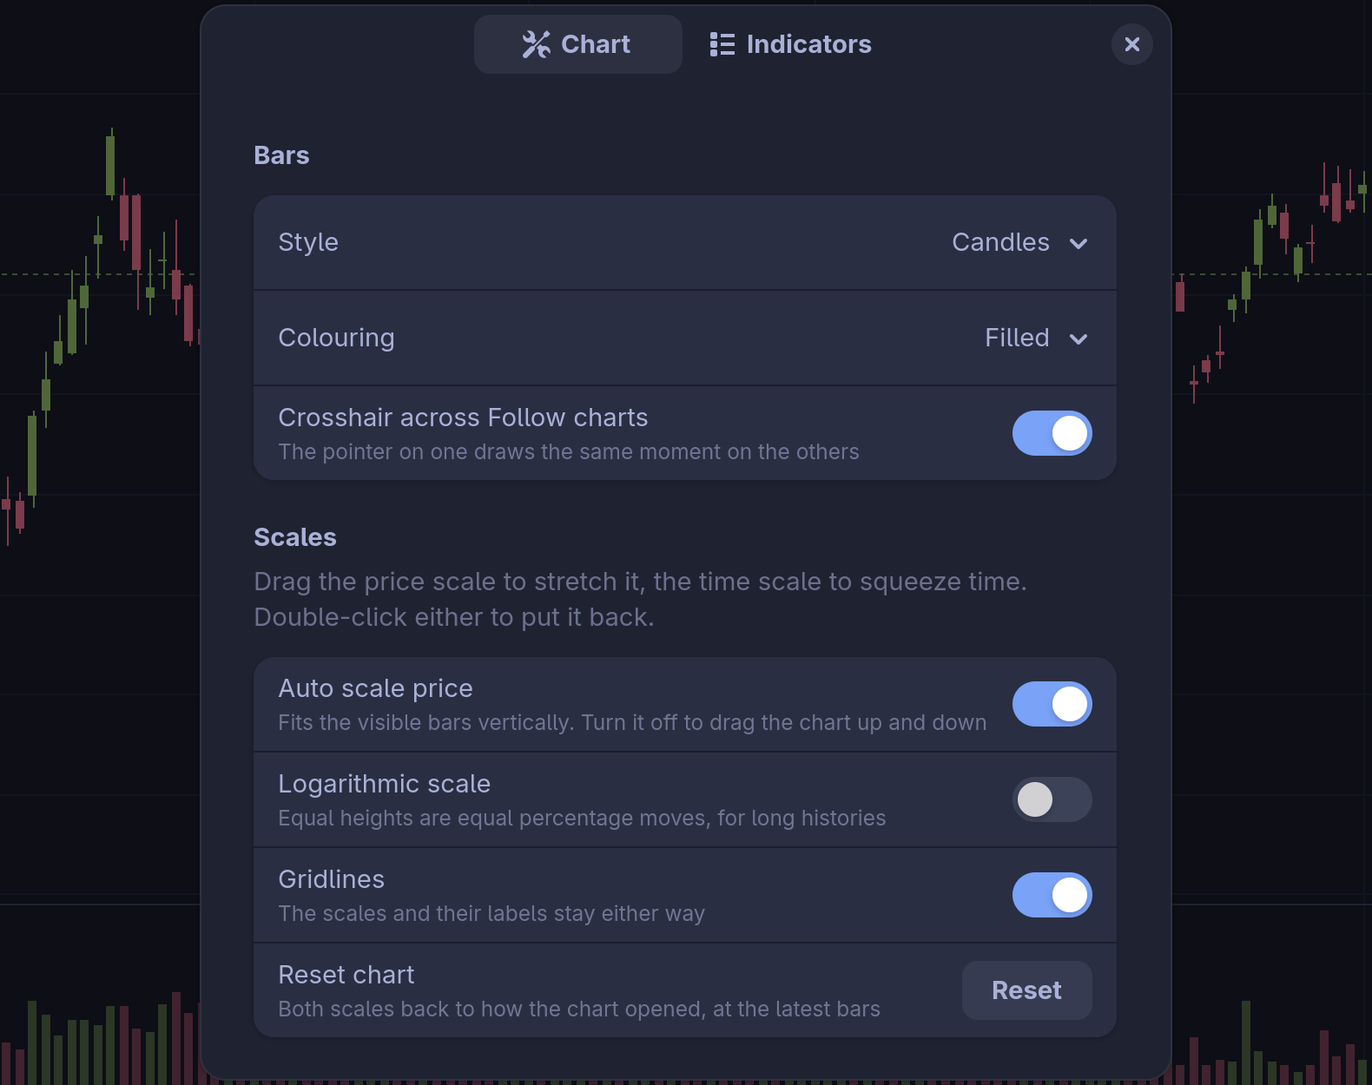
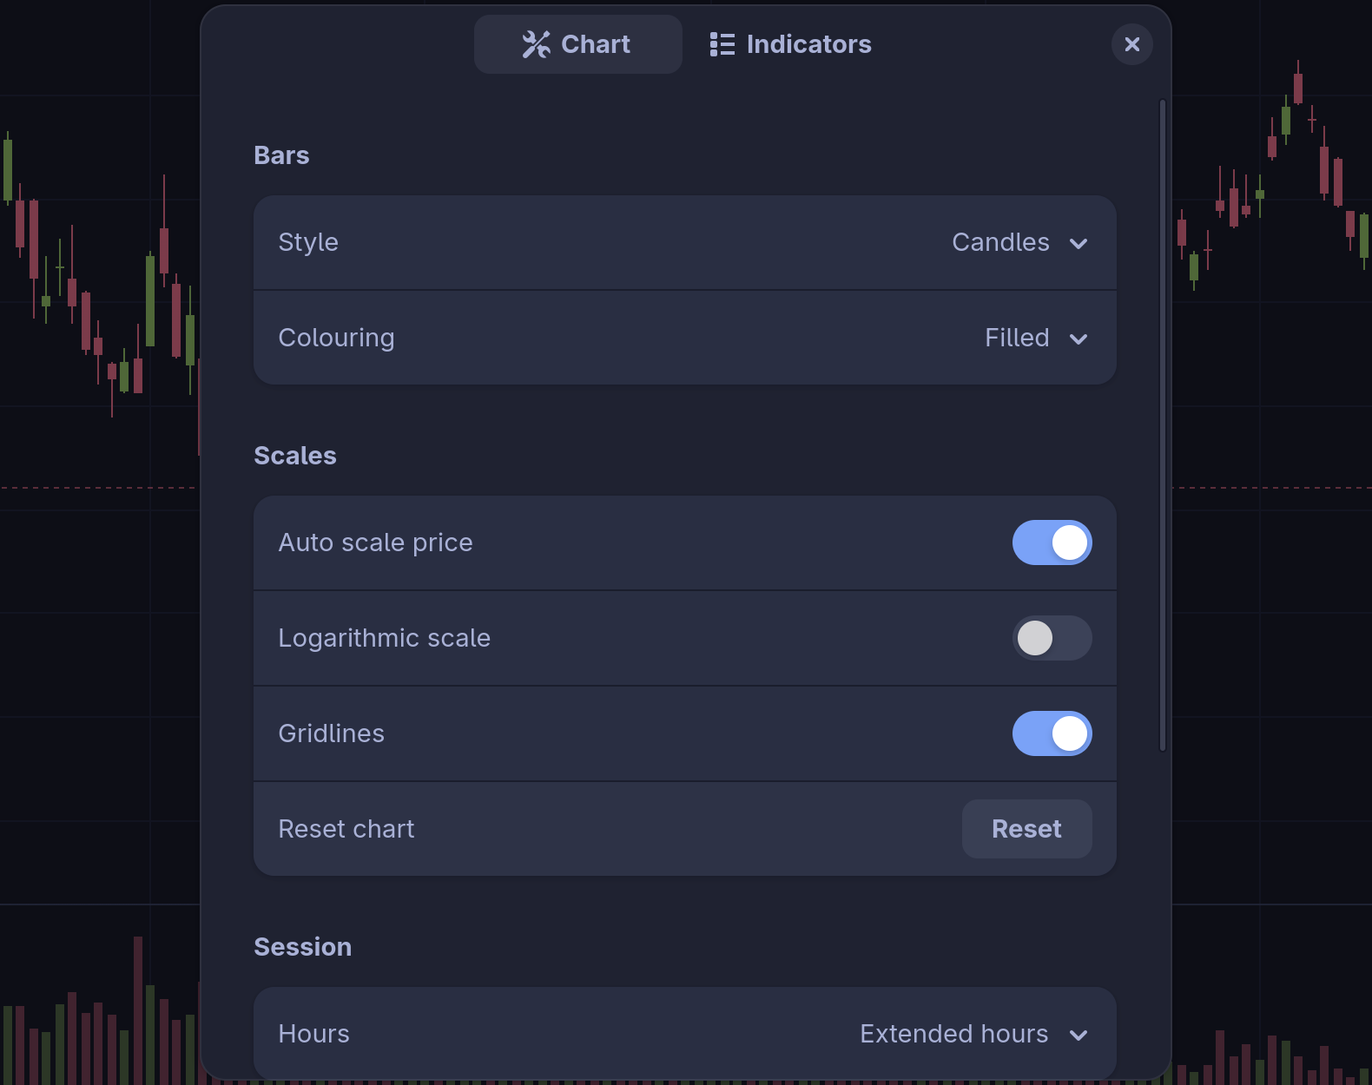
Sync the crosshair across charts of the same symbol, as one app-wide preference (#112)
* Make crosshair syncing a per-chart setting, between charts of one symbol

The crosshair was shared by one switch for the whole window, and only
between Follow charts. Each chart now has its own Sync crosshair switch,
on by default and stored with the chart: a chart with it on shares its
pointer with, and shows the crosshair of, every other chart on screen of
the same symbol that has it on, whatever their link mode or resolution.

The switch is in Chart settings where the window-wide row was, in the
chart menu beside Gridlines, Indicators and Drawings, and on the command
line as chart set --crosshair. chart crosshair is gone with the setting
it read. A window-wide switch left off is carried onto every chart
written before this, as off.

* Make crosshair syncing one app-wide preference, between charts of one symbol

Per the author's change of direction: not a per-chart switch, but one
setting for the app, and nothing to do with how charts are linked to the
watchlist. Preferences › Charts › Other › Chart › Sync crosshair across
charts, on by default. With it on, a pointer on any chart draws the same
moment on every other chart on screen of the same symbol and suffix,
whatever their link mode or resolution; charts of different symbols never
share one.

This takes back the per-chart crosshair_sync — the stored field, the split
copy, the chart menu tick, the Chart settings row, chart set --crosshair
and its migration — and removes the old window-wide row from Chart
[…]

diff --git a/src/ui/window.rs b/src/ui/window.rs
@@ -1468,7 +1468,8 @@ pub enum NotShown {
 const SETTING_WORKSPACE: &str = "workspace";
 /// Whether the drawing tools are on screen.
 const SHOW_DRAWING_TOOLS: &str = "show_drawing_tools";
-/// Whether a pointer on a Follow chart draws a line on the other Follow charts.
+/// Whether a pointer on a chart draws a line on the other charts of its
+/// symbol. One switch for the app, in the preferences.
 pub const SETTING_SYNC_CROSSHAIR: &str = "sync_crosshair";
 
 /// One chart, as it is written down.
@@ -2552,8 +2553,8 @@ impl Window {
             closer.change_indicators_of(&pane, kept);
         });
 
-        // The pointer on a Follow chart draws a crosshair on the other Follow
-        // charts, so you can read the same moment and the same price on all
+        // The pointer on a chart draws a crosshair on the other charts of its
+        // symbol, so you can read the same moment and the same price on all
         // of them at once. Both halves travel as values rather than as
         // pixels: charts at different resolutions share no bar index, and
         // charts at different zooms share no y.
@@ -4622,21 +4623,27 @@ impl Window {
         entry.add_controller(keys);
     }
 
-    /// Draw `ts` on every Follow chart when `from` is one, and on none when
-    /// it is not: a Focus or Pinned chart is deliberately somewhere else.
+    /// Draw where the pointer on `from` is on every other chart showing its
+    /// symbol, and on no other chart.
+    ///
+    /// Whatever their link mode or resolution: what decides it is the
+    /// symbol, since a price and a moment only mean the same thing on two
+    /// charts of the same one. With the setting off nothing is drawn, and a
+    /// line still standing from before it was turned off goes as soon as the
+    /// pointer moves.
     fn echo_crosshair(self: &Rc<Self>, from: u32, echo: Option<Echo>) {
-        if !self.store.setting_bool(SETTING_SYNC_CROSSHAIR, true) {
-            return;
-        }
-        let source = self.pane(from).map(|p| p.mode()).unwrap_or_default();
+        let symbol = |pane: &ChartPane| {
+            pane.instrument.borrow().as_ref().map(|i| (i.symbol.clone(), i.suffix.clone()))
+        };
+        let sent = self
+            .pane(from)
+            .and_then(|source| symbol(&source))
+            .filter(|_| self.store.setting_bool(SETTING_SYNC_CROSSHAIR, true));
         for pane in self.panes.borrow().iter() {
             if pane.id == from {
                 continue;
             }
-            // Follow to Follow, or no line: any other chart may be showing a
-            // different symbol, and a crosshair from this one would be
-            // pointing at a bar that is not the bar under the pointer.
-            let show = source == LinkMode::Follow && pane.mode() == LinkMode::Follow;
+            let show = sent.is_some() && symbol(pane) == sent;
             pane.view.set_echo(if show { echo } else { None });
         }
     }
@@ -5618,11 +5625,11 @@ impl Window {
     }
 
     pub fn open_chart_settings(self: &Rc<Self>) {
-        crate::ui::chart_settings::ChartSettings::present(self, self.store.clone());
+        crate::ui::chart_settings::ChartSettings::present(self);
     }
 
     pub fn open_indicators(self: &Rc<Self>) {
-        crate::ui::chart_settings::ChartSettings::present_indicators(self, self.store.clone());
+        crate::ui::chart_settings::ChartSettings::present_indicators(self);
     }
 
     /// The indicator picker, centred like every other picker in the app.
@@ -7391,11 +7398,7 @@ impl Window {
                     picker.view.pick(Some(id));
                     return;
                 }
-                crate::ui::chart_settings::ChartSettings::present_indicator(
-                    &this,
-                    this.store.clone(),
-                    id,
-                );
+                crate::ui::chart_settings::ChartSettings::present_indicator(&this, id);
             });
             label.add_controller(open_settings);
 
@@ -7424,11 +7427,7 @@ impl Window {
             settings.set_tooltip_text(Some("Settings"));
             let this = self.clone();
             settings.connect_clicked(move |_| {
-                crate::ui::chart_settings::ChartSettings::present_indicator(
-                    &this,
-                    this.store.clone(),
-                    id,
-                );
+                crate::ui::chart_settings::ChartSettings::present_indicator(&this, id);
             });
 
             let remove = gtk::Button::from_icon_name("user-trash-symbolic");
@@ -7489,7 +7488,7 @@ impl Window {
             }
             IndicatorEvent::Properties(indicator) => {
                 self.focus(id);
-                crate::ui::chart_settings::ChartSettings::present_indicator(self, self.store.clone(), indicator);
+                crate::ui::chart_settings::ChartSettings::present_indicator(self, indicator);
             }
             IndicatorEvent::Remove(indicator) => self.remove_indicator(&pane, indicator),
         }
@@ -9057,7 +9056,7 @@ impl Window {
         let this = self.clone();
         settings.connect_activate(move |_, _| {
             if let Some(id) = this.menu_indicator.borrow_mut().take() {
-                crate::ui::chart_settings::ChartSettings::present_indicator(&this, this.store.clone(), id);
+                crate::ui::chart_settings::ChartSettings::present_indicator(&this, id);
             }
         });
         actions.add_action(&settings);

diff --git a/src/ui/chart_settings.rs b/src/ui/chart_settings.rs
@@ -18,7 +18,6 @@ use omacharts_engine::indicators::profile::{Align, Style};
 use omacharts_engine::theme::ColorChoice;
 use omacharts_engine::{BarColouring, BarStyle, Indicator, Session};
 
-use crate::store::Store;
 use crate::ui::colors;
 use crate::ui::controls;
 use crate::ui::dialogs;
@@ -38,21 +37,21 @@ pub struct ChartSettings;
 
 impl ChartSettings {
     /// The chart's own settings, on the first page.
-    pub fn present(window: &Rc<Window>, store: Rc<Store>) {
-        ChartSettings::open(window, store, Focus::Chart);
+    pub fn present(window: &Rc<Window>) {
+        ChartSettings::open(window, Focus::Chart);
     }
 
     /// Straight to the indicators.
-    pub fn present_indicators(window: &Rc<Window>, store: Rc<Store>) {
-        ChartSettings::open(window, store, Focus::Indicators);
+    pub fn present_indicators(window: &Rc<Window>) {
+        ChartSettings::open(window, Focus::Indicators);
     }
 
     /// Straight to one indicator's panel, for the gear beside it on the chart.
-    pub fn present_indicator(window: &Rc<Window>, store: Rc<Store>, id: u32) {
-        ChartSettings::open(window, store, Focus::Indicator(id));
+    pub fn present_indicator(window: &Rc<Window>, id: u32) {
+        ChartSettings::open(window, Focus::Indicator(id));
     }
 
-    fn open(window: &Rc<Window>, store: Rc<Store>, focus: Focus) {
+    fn open(window: &Rc<Window>, focus: Focus) {
         let dialog = adw::PreferencesDialog::new();
         dialog.set_title("Chart");
         dialog.set_content_width(560);
@@ -64,7 +63,7 @@ impl ChartSettings {
         let chart_page = adw::PreferencesPage::new();
         chart_page.set_title("Chart");
         chart_page.set_icon_name(Some("preferences-system-symbolic"));
-        chart_page.add(&bars_group(window, &store));
+        chart_page.add(&bars_group(window));
         chart_page.add(&scales_group(window));
         chart_page.add(&session_group(window));
         chart_page.add(&drawings_group(window));
@@ -270,7 +269,7 @@ fn template_rows(
     fill();
 }
 
-fn bars_group(window: &Rc<Window>, store: &Rc<Store>) -> adw::PreferencesGroup {
+fn bars_group(window: &Rc<Window>) -> adw::PreferencesGroup {
     let group = adw::PreferencesGroup::new();
     group.set_title("Bars");
 
@@ -322,25 +321,6 @@ fn bars_group(window: &Rc<Window>, store: &Rc<Store>) -> adw::PreferencesGroup {
     });
     group.add(&colouring);
 
-    // One switch for the window rather than one per chart: it is about how the
-    // charts behave towards each other, which is not a property of any one of
-    // them.
-    let sync = adw::ActionRow::new();
-    sync.set_title("Crosshair across Follow charts");
-    let switch = gtk::Switch::new();
-    switch.set_valign(gtk::Align::Center);
-    switch.set_active(store.setting_bool(crate::ui::window::SETTING_SYNC_CROSSHAIR, true));
-    let window_for_sync = window.clone();
-    let store_for_sync = store.clone();
-    switch.connect_state_set(move |_, on| {
-        store_for_sync.set_setting_bool(crate::ui::window::SETTING_SYNC_CROSSHAIR, on);
-        if !on {
-            window_for_sync.clear_echoes();
-        }
-        glib::Propagation::Proceed
-    });
-    sync.add_suffix(&switch);
-    group.add(&sync);
 
     group
 }

diff --git a/src/ui/preferences.rs b/src/ui/preferences.rs
@@ -254,8 +254,9 @@ fn rebuild(context: &Rc<Context>) {
 }
 
 /// A way to the resolution list from the settings, since the other way in is
-/// right-clicking a strip, which you have to know about to find.
-fn resolutions_group(context: &Rc<Context>) -> adw::PreferencesGroup {
+/// right-clicking a strip, which you have to know about to find; and the one
+/// switch about how the charts behave towards each other.
+fn chart_group(context: &Rc<Context>) -> adw::PreferencesGroup {
     let group = adw::PreferencesGroup::new();
     group.set_title("Chart");
 
@@ -273,6 +274,28 @@ fn resolutions_group(context: &Rc<Context>) -> adw::PreferencesGroup {
     row.connect_activated(move |_| edit());
 
     group.add(&row);
+
+    // One switch for the app rather than one per chart, and nothing to do
+    // with how a chart is linked to the watchlist: two charts of the same
+    // symbol are two looks at the same moment, whichever list moves them.
+    let sync = adw::ActionRow::new();
+    sync.set_title("Sync crosshair across charts");
+    let switch = gtk::Switch::new();
+    switch.set_valign(gtk::Align::Center);
+    switch.set_active(context.store.setting_bool(crate::ui::window::SETTING_SYNC_CROSSHAIR, true));
+    let store = context.store.clone();
+    let window = context.window.clone();
+    switch.connect_state_set(move |_, on| {
+        store.set_setting_bool(crate::ui::window::SETTING_SYNC_CROSSHAIR, on);
+        if !on {
+            window.clear_echoes();
+        }
+        glib::Propagation::Proceed
+    });
+    sync.add_suffix(&switch);
+    sync.set_activatable_widget(Some(&switch));
+    group.add(&sync);
+
     group
 }
 
@@ -754,7 +777,7 @@ fn build_general_page(context: &Rc<Context>) {
         context.general_page.add(&group);
     }
     context.charts_other_page.add(&time_group(context));
-    context.charts_other_page.add(&resolutions_group(context));
+    context.charts_other_page.add(&chart_group(context));
     context.general_page.add(&screenshots_group(context));
     build_charts_page(context);
     rebuild_templates(context);

diff --git a/src/cli/exec.rs b/src/cli/exec.rs
@@ -4175,10 +4175,12 @@ fn status(store: &Store, window_open: bool, as_json: bool) -> Result<String, Fau
     Ok(out)
 }
 
-/// Whether a pointer on a Follow chart draws a line on the other Follow charts.
+/// Whether a pointer on a chart draws a line on the other charts of the same
+/// symbol.
 ///
-/// One setting for the whole window rather than one per chart, which is why
-/// it reads and writes a setting rather than a pane.
+/// One setting for the whole app rather than one per chart, which is why it
+/// reads and writes a setting rather than a pane. The same key the
+/// preferences' switch writes, so `config set sync_crosshair` reaches it too.
 fn crosshair(store: &Store, m: &clap::ArgMatches, as_json: bool) -> Result<String, Fault> {
     const KEY: &str = "sync_crosshair";
     let Some(state) = arg(m, "STATE") else {
@@ -4193,7 +4195,7 @@ fn crosshair(store: &Store, m: &clap::ArgMatches, as_json: bool) -> Result<Strin
     said(
         as_json,
         json!({"crosshairSync": on}),
-        format!("crosshair syncing across Follow charts is {state}"),
+        format!("crosshair syncing across charts of the same symbol is {state}"),
     )
 }
 

diff --git a/src/ui/chart.rs b/src/ui/chart.rs
@@ -3593,7 +3593,7 @@ impl ChartView {
     /// Bar indices are not shared — two resolutions of the same symbol count
     /// their bars differently — so both halves travel as values and each
     /// chart maps them through its own scales. Price is worth carrying
-    /// because an echo only ever reaches the Follow charts, and they share a
+    /// because an echo only ever reaches the other charts of the same
     /// symbol: the number means the same thing at both ends.
     pub fn set_echo(&self, echo: Option<Echo>) {
         let changed = {

diff --git a/src/cli/spec.rs b/src/cli/spec.rs
@@ -968,7 +968,7 @@ pub const SURFACE: &[Noun] = &[
             },
             Verb {
                 name: "crosshair",
-                about: "Whether a pointer on a Follow chart draws a line on the other Follow charts",
+                about: "Whether a pointer on a chart draws a line on the other charts of the same symbol",
                 args: &[Arg::opt("STATE", "omit to read it").of(SWITCHES)],
                 flags: &[],
                 example: "omacharts chart crosshair off",

diff --git a/site/manual/cli.md b/site/manual/cli.md
@@ -277,7 +277,7 @@ codes](#exit-codes).
 | `watchlist` | Watchlists and the symbols in them | [Watchlists and sections](#watchlists-and-sections); `watchlist feed` under [The Omarchy plugin](#watchlist-feed) |
 | `section` | The sections inside a watchlist | [Watchlists and sections](#watchlists-and-sections) |
 | `chartbook` | Chartbooks | [Chartbooks](#chartbooks); `chartbook template` under [Chartbook templates](#chartbook-templates); `chartbook screenshot` under [Screenshots](#screenshots) |
-| `chart` | The charts in a chartbook | [Charts](#charts) (`set`, `range`), [Indicators](#indicators), [Drawings](#drawings), [Measuring a move](#measuring-a-move), [Arranging charts](#arranging-charts) (`list`, `split`, `close`, `focus`), [Linking](#linking) (`crosshair`), [Screenshots](#screenshots) |
+| `chart` | The charts in a chartbook | [Charts](#charts) (`set`, `range`), [Indicators](#indicators), [Drawings](#drawings), [Measuring a move](#measuring-a-move), [Arranging charts](#arranging-charts) (`list`, `split`, `close`, `focus`), [Linking](#linking), [Sharing the crosshair](#sharing-the-crosshair) (`crosshair`), [Screenshots](#screenshots) |
 | `template` | Chart templates | [Chart templates](#chart-templates) |
 | `provider` | The data feed, and signing in to one | [Market data](#market-data) |
 | `config` | Stored preferences | [Preferences](#preferences); `config bars` under [Charts](#config-bars) |
@@ -1167,11 +1167,13 @@ omacharts: NVDA not shown; the focused chart is pinned and no chart follows the 
   [exit 5]
 ```
 
-### `chart crosshair`
+## Sharing the crosshair
+
+Whether the pointer on one chart draws the same moment on every other chart of the same symbol, whatever their link mode. One setting for every chart, Preferences › Charts › Other › **Sync crosshair across charts** ([Sharing the crosshair](/manual/charts/#sharing-the-crosshair)).
 
 | Command | Does |
 |---|---|
-| `chart crosshair` | Whether the crosshair is shared across Follow charts; prints `on` or `off`. |
+| `chart crosshair` | Whether the crosshair is shared; prints `on` or `off`. |
 | `chart crosshair on` or `off` | Turns it on or off. |
 | `config set sync_crosshair on` or `off` | The same setting, by its key; see [Preferences](#preferences). |
 
@@ -1514,7 +1516,7 @@ same.
 | `chart_time_zone` | an IANA name such as `Europe/London` or `America/Chicago`, or `exchange` for each chart's exchange's own | `America/New_York` | Charts › Other › Time › Time zone | [Preferences](/manual/preferences/#time) |
 | `time_format` | `24h`, `12h` | the desktop's clock format | Charts › Other › Time › Time format | [Preferences](/manual/preferences/#time) |
 | `timeframes` | comma-separated resolutions, such as `5m,15m,1h,4h,1D,1W`; an entry that is not a resolution is skipped | `5m,15m,1h,4h,1D,1W` | Charts › Other › Preset resolutions | [Charts](/manual/charts/) |
-| `sync_crosshair` | on, off | on | Chart settings › Crosshair across Follow charts | [Chart settings](/manual/chart-settings/) |
+| `sync_crosshair` | on, off | on | Charts › Other › Chart › Sync crosshair across charts | [Charts](/manual/charts/#sharing-the-crosshair) |
 | `provider` | `yahoo`, `tos` | `yahoo` | Data › Data feed | [Market data feeds](/manual/market-data/) |
 | `screenshot_save_file` | on, off | on | General › Also save a PNG | [Screenshots](/manual/screenshots/) |
 | `screenshot_folder` | a folder; `~/` is your home; empty for the default | `<Pictures>/Omacharts` | General › Save to | [Screenshots](/manual/screenshots/) |

diff --git a/site/manual/charts.md b/site/manual/charts.md
@@ -375,9 +375,15 @@ crop: 1100,500,1460,940
 -->
 {% include figure.html src="/assets/manual/charts/crosshair.jpg" alt="An NVDA hourly chart with the crosshair and its price and time tags, and the last-price tag on its dashed line" caption="The crosshair's tags in the accent colour, and the last price in the colour of the last bar." %}
 
-The crosshair is a pair of dotted lines that cross at the centre of the bar under the pointer. The price is tagged on the price axis and the bar's time on the time axis (the date alone on daily and coarser bars), in the chosen [time zone and format](/manual/preferences/#time). When each chart reads its exchange's clock, the time ends with the zone, such as **21 Oct 2026 07:30 CT**. Over an indicator strip the price tag shows that strip's value. With [Crosshair across Follow charts](/manual/watchlists/#the-crosshair-across-follow-charts) on, the other Follow charts show the same moment and price, dimmed.
+The crosshair is a pair of dotted lines that cross at the centre of the bar under the pointer. The price is tagged on the price axis and the bar's time on the time axis (the date alone on daily and coarser bars), in the chosen [time zone and format](/manual/preferences/#time). When each chart reads its exchange's clock, the time ends with the zone, such as **21 Oct 2026 07:30 CT**. Over an indicator strip the price tag shows that strip's value.
 
 The last price is a tag on the price axis, filled in the colour of the last bar's direction, with a dashed line across the chart at its level.
+
+### Sharing the crosshair
+
+The pointer on one chart draws a dimmed crosshair at the same moment and price on every other chart on screen of the same symbol, each at its own resolution. It does not matter how the charts are linked to the watchlist. Charts of different symbols never share a crosshair.
+
+It is one switch for every chart: Preferences › Charts › Other › Chart › **Sync crosshair across charts** ([Preferences](/manual/preferences/#charts)). It is on by default.
 
 ## When a chart is empty or out of date
 

diff --git a/doc/cli.md b/doc/cli.md
@@ -274,8 +274,7 @@ Each chart has a link mode: what a click in the watchlist does to it.
   Split a chart and click a symbol, and the chart in front of you takes it
   while the other keeps what it had.
 * **`follow`** takes every click. Follow charts show the same instrument: a
-  symbol typed on one moves the others, and a pointer on one draws a crosshair
-  on the rest. Make a chart Follow, split it, change the new one's resolution,
+  symbol typed on one moves the others. Make a chart Follow, split it, change the new one's resolution,
   and both walk the watchlist together.
 * **`pinned`** takes none, focused or not — for a context chart such as SPY
   beside a stock. A click that moves nothing, because the focused chart is
@@ -356,7 +355,13 @@ Three changes write nothing, which is what makes the control safe to touch:
 symbol over the Follow charts is the window's business — picking in the sidebar,
 or typing in the search — and a command names the charts it means.
 
-Whether a pointer on a Follow chart draws a line on the other Follow charts:
+## The crosshair across charts of one symbol
+
+A pointer on one chart draws a quieter crosshair at the same moment and price
+on every other chart on screen of the same symbol, whatever their link mode or
+resolution. Charts of different symbols never share one. It is one setting
+for the whole app, on by default — Preferences › Charts › Other › Sync
+crosshair across charts, or the key `sync_crosshair`:
 
 ```
 omacharts chart crosshair off

diff --git a/site/manual/chart-settings.md b/site/manual/chart-settings.md
@@ -31,7 +31,6 @@ crop: 490,95,1580,1250 (both)
 |---|---|
 | **Bars** › **Style** | **Candles**, **OHLC bars**, or **None** to hide the bars ([Bars](/manual/charts/#bars)). **Colouring** is greyed out while they are hidden |
 | **Bars** › **Colouring** | **Filled**, **Hollow**, **Red up** or **Monochrome** for candles; **Coloured**, **Red up** or **Monochrome** for OHLC bars ([Colouring](/manual/charts/#colouring)) |
-| **Bars** › **Crosshair across Follow charts** | One switch for the whole window, not for this chart. The pointer on one Follow chart draws the same moment on the others ([The crosshair across Follow charts](/manual/watchlists/#the-crosshair-across-follow-charts)) |
 | **Scales** › **Auto scale price** | Fits the visible bars vertically. Off, the chart can be dragged up and down ([Scales](/manual/charts/#scales)) |
 | **Scales** › **Logarithmic scale** | Equal heights are equal percentage moves ([Logarithmic scale](/manual/charts/#logarithmic-scale)) |
 | **Scales** › **Gridlines** | Draws the grid. The scales and their labels stay either way |

diff --git a/site/manual/preferences.md b/site/manual/preferences.md
@@ -56,6 +56,7 @@ crop: 301,122,1958,1356
 | Templates › **Chart templates** | The list. + makes one, a row opens its editor, the pencil renames, the bin deletes. | [Chart templates](/manual/chart-templates/) |
 | Header › **In the header** | The parts every chart's header shows, in order. | [The header](/manual/charts/#the-header) |
 | Other › Chart › **Preset resolutions**, **Edit…** | Opens the Resolutions dialog. | [The preset resolutions](/manual/charts/#the-preset-resolutions) |
+| Other › Chart › **Sync crosshair across charts** | The pointer on one chart draws the same moment on every other chart of the same symbol. On by default. | [Sharing the crosshair](/manual/charts/#sharing-the-crosshair) |
 | Other › Time › **Time zone**, **Time format** | How every chart tells the time. | [Time](#time) |
 
 #### Time

diff --git a/site/manual/watchlists.md b/site/manual/watchlists.md
@@ -247,14 +247,6 @@ The chain appears once there is a second chart. With one chart, Focus and
 Follow do the same thing. A lone chart shows the chain only while it is
 pinned.
 
-### The crosshair across Follow charts
-
-The pointer on a Follow chart draws the same moment on the other Follow
-charts, at their own resolutions. Focus and Pinned charts are left alone.
-**Crosshair across Follow charts** in [Chart settings](/manual/chart-settings/)
-(<kbd>Ctrl</kbd> + <kbd>Shift</kbd> + <kbd>S</kbd>) turns it off or on for the
-whole window. It is on by default.
-
 ## See also
 
 - [Managing watchlists with the CLI](/manual/cli/#watchlists-and-sections), including export and import
